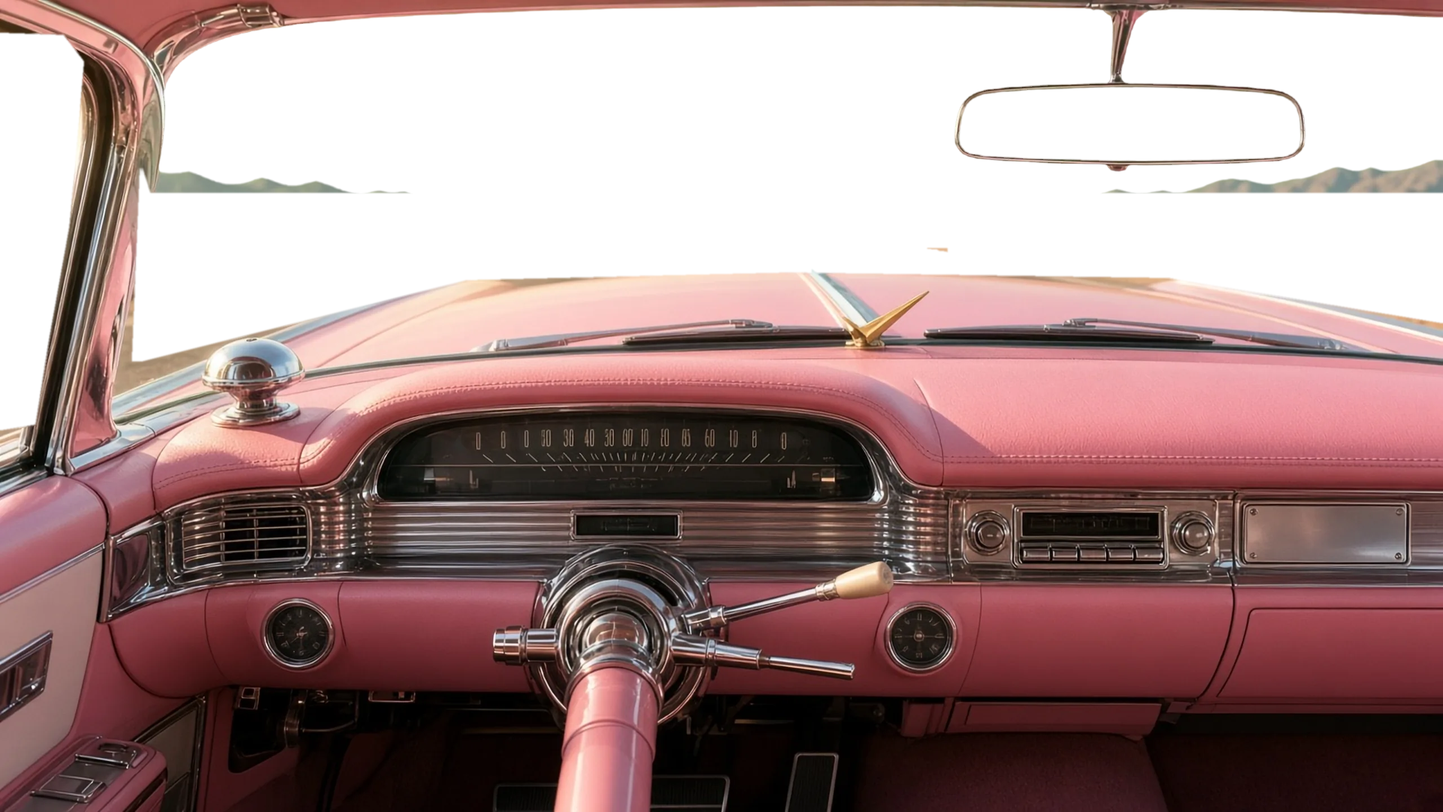
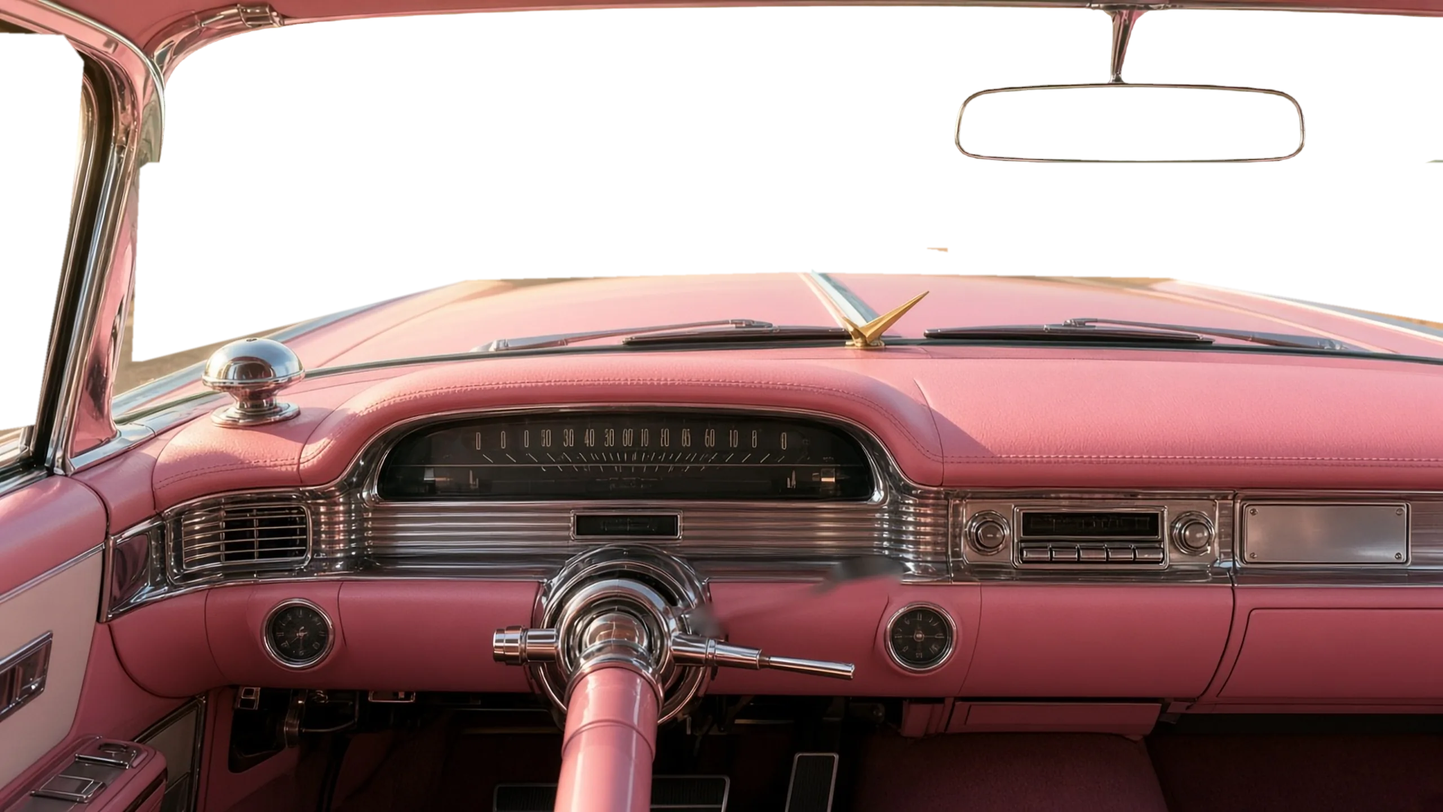
Deploy v1.5

Changed region(s): [[0.75, 0.1875, 1.0, 0.25], [0.4688, 0.6875, 0.625, 0.7812], [0.0938, 0.1875, 0.25, 0.25]]

diff --git a/index.html b/index.html
@@ -10,7 +10,7 @@
 <link rel="icon" href="data:,">
 <link rel="manifest" href="assets/manifest.webmanifest">
 <link rel="apple-touch-icon" href="assets/icon-180.png">
-<title>Street Rod: engine sound + driving demo (v1.4.1)</title>
+<title>Street Rod: engine sound + driving demo (v1.5)</title>
 <style>
 * { box-sizing: border-box; -webkit-tap-highlight-color: transparent; }
 html, body { margin: 0; background: #1a120c; color: #eadfc6; font: 15px/1.45 Georgia, 'Times New Roman', serif; }
@@ -64,11 +64,26 @@ td { padding: 2px 4px; vertical-align: top; } td:first-child { white-space: nowr
 .touch #stage { position: absolute; inset: 0; aspect-ratio: auto; border-radius: 0; }
 .touch aside { display: none; }
 .touch .tb { font-size: 13px; padding: 8px 10px; }
+/* v1.5: phones get separate layouts. Landscape: compact top bar (extra controls behind the menu button), pedals in the
+   side columns, shift buttons above the gas pedal, so the painted scene's middle stays clear. Portrait: top bar, then the
+   scene, then the controls below it (nothing over the scene). The painted visuals frame each layout separately. */
+#bMenu { display: none; min-width: 40px; font-size: 17px; }
+.touch #bMenu { display: inline-block; }
+.touch #topbar:not(.open) .more { display: none !important; }
+.touch #topbar.open #bMenu { background: #ffcf4a; }
+@media (orientation: landscape) {
+  .touch .shifts { right: max(10px, env(safe-area-inset-right)); bottom: calc(50% + 14px); width: max(11%, 78px); align-items: center; gap: 8px; }
+  .touch .tb.big { height: 52px; width: 100%; }
+}
 @media (orientation: portrait) {
-  .touch #rotate:not(.dismissed) { display: flex; position: absolute; inset: 0; z-index: 10; background: rgba(10,6,3,.88); align-items: center; justify-content: center; text-align: center; font-size: 18px; }
-  .touch #rotate .tb { margin-top: 14px; font-size: 15px; }
-  .touch .pedal { height: 25%; }
-  .touch .tb.big { height: 54px; }
+  .touch #stage { display: flex; flex-direction: column; padding-top: env(safe-area-inset-top); background: #1a120c; }
+  .touch #topbar { position: relative; top: auto; left: auto; right: auto; flex: 0 0 auto; padding: 8px max(8px, env(safe-area-inset-right)) 8px max(8px, env(safe-area-inset-left)); background: #1a120c; }
+  .touch canvas#dash { position: relative; inset: auto; flex: 1 1 0px; min-height: 0; height: 0; width: 100%; }
+  .touch #touch { position: relative; inset: auto; flex: 0 0 30%; display: block; background: #1a120c; border-top: 1px solid #3a2a1c; }
+  .touch .pedal { top: 10px; height: auto; bottom: max(10px, env(safe-area-inset-bottom)); width: 30%; }
+  .touch #pBrake { width: 32%; }
+  .touch .shifts { left: 50%; right: auto; top: 10px; bottom: max(10px, env(safe-area-inset-bottom)); transform: translateX(-50%); width: 26%; justify-content: center; }
+  .touch .tb.big { width: 100%; height: 46%; }
   .touch #topbar { gap: 4px; }
 }
 @media (max-width: 1100px) { #app { flex-wrap: wrap; } aside { flex: 1 1 100%; } }
@@ -127,14 +142,15 @@ td { padding: 2px 4px; vertical-align: top; } td:first-child { white-space: nowr
       <button class="tb" id="bIgn" data-act="ign">&#9679; Start engine</button>
       <div class="seg" id="segCar"><button class="tb" data-act="car" data-v="gt350">GT350</button><button class="tb" data-act="car" data-v="caddy">Cadillac</button></div>
       <div class="seg" id="segView"><button class="tb" data-act="view" data-v="1">Inside car</button><button class="tb" data-act="view" data-v="0">Outside (rear)</button><button class="tb" id="bBay" data-act="view" data-v="2">Engine bay</button></div>
-      <label class="sel"><span>Sound</span><select id="selSound" aria-label="Sound model"></select></label>
-      <label class="sel"><span>Visuals</span><select id="selVisual" aria-label="Visuals"></select></label>
-      <button class="tb" id="bDrag" data-act="drag">Drag &frac14; mile</button>
-      <button class="tb hidden" id="bRadio" data-act="radio">&#128251; Radio</button>
-      <button class="tb" id="bUnits" data-act="units">km/h</button>
-      <button class="tb" id="bMute" data-act="mute">Mute</button>
-      <button class="tb" id="bAbout" data-act="about" aria-label="About and history" title="About / History">i</button>
-      <div id="astatus" class="astatus">Sound: tap to enable</div>
+      <label class="sel more"><span>Sound</span><select id="selSound" aria-label="Sound model"></select></label>
+      <label class="sel more"><span>Visuals</span><select id="selVisual" aria-label="Visuals"></select></label>
+      <button class="tb more" id="bDrag" data-act="drag">Drag &frac14; mile</button>
+      <button class="tb more hidden" id="bRadio" data-act="radio">&#128251; Radio</button>
+      <button class="tb more" id="bUnits" data-act="units">km/h</button>
+      <button class="tb more" id="bMute" data-act="mute">Mute</button>
+      <button class="tb more" id="bAbout" data-act="about" aria-label="About and history" title="About / History">i</button>
+      <button class="tb" id="bMenu" data-act="menu" aria-label="More controls" title="More controls">&#9776;</button>
+      <div id="astatus" class="astatus more">Sound: tap to enable</div>
     </div>
     <div id="touch">
       <div class="pedal" id="pBrake" data-pedal="brake"><div class="fill"></div><span>BRAKE</span></div>
@@ -144,7 +160,6 @@ td { padding: 2px 4px; vertical-align: top; } td:first-child { white-space: nowr
     <div id="tree" class="hidden" aria-label="Drag tree"><div class="lbl">PRE</div><div class="pair"><i class="b" data-b="pre"></i><i class="b" data-b="pre"></i></div><div class="lbl">STAGE</div><div class="pair"><i class="b" data-b="stage"></i><i class="b" data-b="stage"></i></div><div class="pair am"><i class="b" data-b="a1"></i><i class="b" data-b="a1"></i></div><div class="pair am"><i class="b" data-b="a2"></i><i class="b" data-b="a2"></i></div><div class="pair am"><i class="b" data-b="a3"></i><i class="b" data-b="a3"></i></div><div class="pair gr"><i class="b" data-b="g"></i><i class="b" data-b="g"></i></div><div class="pair rd"><i class="b" data-b="r"></i><i class="b" data-b="r"></i></div></div>
     <div id="dragCard" class="hidden"></div>
     <div id="about" class="hidden" role="dialog" aria-modal="true" aria-labelledby="aboutTitle"><div class="aboutBox"><button class="tb aboutX" data-act="aboutClose" aria-label="Close">&times;</button><h2 id="aboutTitle">About / History</h2><div id="aboutBody"></div></div></div>
-    <div id="rotate"><div><b>&#8635; Rotate your phone</b><br>Landscape is the driving mode.<br><button class="tb" data-act="dismissRotate">Continue in portrait</button></div></div>
   </div>
   <aside>
     <h3>Controls (keyboard)</h3>
@@ -8316,7 +8331,7 @@ var GLView = (function () {
 </script>
 <script>/* js/painted-assets.js */
 /* painted-assets.js: generated by proposals/visuals-v2/interior-r3/build-assets-v2.py (Visuals v2 painted). The single-file build inlines these as data URIs. */
-var PAINTED_ASSETS = {"meta": {"upscale": "edsr-x2", "gt350": {"axisX": 555, "hub": [552, 490], "wheelR": 300, "view": {"hz": 196, "f": 900, "camH": 1.15, "roadHalf": 3.4}, "mirror": [678, 62, 218, 49], "side": [[0, 19], [146, 19], [146, 396], [0, 396]], "shifter": [792, 554, 128, 108], "gauges": {"speedo": [485, 385, 47], "tach": [625, 385, 47]}, "radioDial": [788, 404, 80, 22], "under": {"oil": [830, 507, 17], "amps": [883, 507, 17]}, "badge": [1026, 410, 128, 18], "wheel": {"px": 1224, "logical": 612.0}}, "caddy": {"axisX": 518, "hub": [512, 540], "wheelR": 330, "view": {"hz": 186, "f": 900, "camH": 1.2, "roadHalf": 3.4}, "mirror": [852, 78, 301, 64], "side": [[0, 30], [55, 32], [73, 55], [60, 200], [42, 300], [30, 375], [0, 380]], "ribbon": [333, 368, 441, 76], "prndsl": [506, 452, 96, 20], "radioDial": [907, 455, 121, 20], "plate": [1032, 437, 92, 46], "gauges": {"fuel": [263, 560, 22], "clock": [816, 564, 22]}, "wheel": {"px": 1346, "logical": 673.0}}, "backdrop": {"w": 1280, "h": 720, "hz": 319, "vx": 640, "roadHalfPx": 625, "bottomPx": 401}}, "files": {"caddy-cockpit": "assets/painted/caddy-cockpit.webp", "caddy-wheel-shadow": "assets/painted/caddy-wheel-shadow.webp", "caddy-wheel": "assets/painted/caddy-wheel.webp", "desert-backdrop": "assets/painted/desert-backdrop.jpg", "gt350-cockpit": "assets/painted/gt350-cockpit.webp", "gt350-shifter": "assets/painted/gt350-shifter.webp", "gt350-wheel-shadow": "assets/painted/gt350-wheel-shadow.webp", "gt350-wheel": "assets/painted/gt350-wheel.webp"}};
+var PAINTED_ASSETS = {"meta": {"upscale": "edsr-x2", "gt350": {"axisX": 555, "hub": [552, 490], "wheelR": 258.6, "view": {"hz": 97, "f": 1004.6, "camH": 1.15, "roadHalf": 3.4}, "mirror": [678, 62, 218, 49], "side": [[0, 19], [146, 19], [146, 396], [0, 396]], "shifter": [792, 554, 128, 108], "gauges": {"speedo": [485, 385, 47], "tach": [625, 385, 47]}, "radioDial": [788, 404, 80, 22], "under": {"oil": [830, 507, 17], "amps": [883, 507, 17]}, "badge": [1026, 410, 128, 18], "wheel": {"px": 1055, "logical": 527.5}}, "caddy": {"axisX": 518, "hub": [512, 540], "wheelR": 301.7, "view": {"hz": 148, "f": 1004.6, "camH": 1.2, "roadHalf": 3.4}, "mirror": [852, 78, 301, 64], "side": [[0, 30], [55, 32], [73, 55], [60, 200], [42, 300], [30, 375], [0, 380]], "ribbon": [333, 368, 441, 76], "prndsl": [506, 452, 96, 20], "radioDial": [907, 455, 121, 20], "plate": [1032, 437, 92, 46], "gauges": {"fuel": [263, 560, 22], "clock": [816, 564, 22]}, "lever": {"rect": [598, 490, 207, 78], "pivot": [620, 550]}, "wheel": {"px": 1231, "logical": 615.5}}, "backdrop": {"w": 1280, "h": 720, "hz": 319, "vx": 640, "roadHalfPx": 625, "bottomPx": 401}, "exterior": {"view": {"hz": 238, "f": 1000, "vx": 640}, "gt350": {"px": [924, 658], "bodyX": [6, 917], "contactY": 651, "splitY": 521, "realW": 1.73, "lamps": [[75, 366, 55, 55], [142, 366, 53, 55], [207, 366, 54, 55], [664, 368, 55, 53], [731, 369, 52, 53], [796, 369, 52, 53]], "tips": [[198, 573, 20], [724, 574, 20]], "dist": 4.6, "len": 4.6}, "caddy": {"px": [991, 630], "bodyX": [6, 984], "contactY": 623, "splitY": 527, "realW": 2.03, "lamps": [[72, 165, 36, 91], [883, 165, 37, 93], [32, 321, 30, 26], [85, 322, 26, 26], [876, 321, 32, 27], [930, 321, 30, 28]], "tips": [[69, 477, 24], [923, 478, 24]], "dist": 5.2, "len": 5.71}}, "props": [{"k": "sage", "r": [0, 101, 273, 205], "h": 0.9}, {"k": "creosote", "r": [277, 110, 272, 196], "h": 1.1}, {"k": "grass", "r": [553, 220, 88, 86], "h": 0.35}, {"k": "yucca", "r": [645, 15, 163, 291], "h": 1.6}, {"k": "fencepost", "r": [812, 1, 61, 305], "h": 1.2}, {"k": "delineator", "r": [877, 0, 52, 306], "h": 1.0}]}, "files": {"caddy-cockpit": "assets/painted/caddy-cockpit.webp", "caddy-lever": "assets/painted/caddy-lever.webp", "caddy-rear": "assets/painted/caddy-rear.webp", "caddy-wheel-shadow": "assets/painted/caddy-wheel-shadow.webp", "caddy-wheel": "assets/painted/caddy-wheel.webp", "desert-backdrop": "assets/painted/desert-backdrop.jpg", "desert-props": "assets/painted/desert-props.webp", "gt350-cockpit": "assets/painted/gt350-cockpit.webp", "gt350-rear": "assets/painted/gt350-rear.webp", "gt350-shifter": "assets/painted/gt350-shifter.webp", "gt350-wheel-shadow": "assets/painted/gt350-wheel-shadow.webp", "gt350-wheel": "assets/painted/gt350-wheel.webp"}};
 </script>
 <script>/* js/visuals-painted.js */
 /*
@@ -8328,7 +8343,9 @@ var PAINTED_ASSETS = {"meta": {"upscale": "edsr-x2", "gt350": {"axisX": 555, "hu
  *   3 rear-view mirror view   4 cached cockpit (painting + static gauge faces, scales, plates)
  *   5 live: needles, odometer drum, ribbon speedometer, PRNDSL, lamps, radio pointer, shifter sprite
  *   6 steering-wheel sprite (+ soft shadow sprite) rotated about the hub.
- * Outside and engine-bay views keep the v1 drawing. Assets: PAINTED_ASSETS (js/painted-assets.js).
+ * v1.5: real-dimension driver camera (proposals/visuals-v2/r5/camera.py), painted rear chase view, moving gear levers, and separate
+ *   portrait / landscape / desktop framing (focus box per car + view fitted into the canvas area no control covers).
+ * The engine-bay view keeps the v1 drawing. Assets: PAINTED_ASSETS (js/painted-assets.js).
  */
 var PaintedCockpit = (function () {
   'use strict';
@@ -8450,39 +8467,91 @@ var PaintedCockpit = (function () {
     }
     caches[key] = out; return out;
   }
-  // ---------------------------------------------------------------- scenery
-  function backdrop(g, car, s) {
-    var m = M[car], v = m.view, B = M.backdrop, img = A['desert-backdrop'];
-    var camH = B.bottomPx / B.roadHalfPx * 3.6, /* painting bottom row 4 m ahead */ k = (v.f * camH / 4.0) / B.bottomPx; // scale so painted road (half 3.6 m) matches the live geometry
-    var w = B.w * k, h = B.h * k, ox = m.axisX - B.vx * k, oy = v.hz - B.hz * k, hz = v.hz;
-    var dx = 1.85 + (s.lat || 0); // camera right of the road's centre line (right-hand lane); shear the ground so the road meets the vanishing point
-    var shear = -dx / camH;
-    g.save(); g.beginPath(); g.rect(0, 0, PW, hz + 1); g.clip(); g.drawImage(img, ox, oy, w, h); g.restore();
-    g.save(); g.beginPath(); g.rect(0, hz, PW, PH - hz); g.clip(); g.transform(1, 0, shear, 1, -shear * hz, 0); g.drawImage(img, ox, oy, w, h); g.restore();
-    function yOf(z) { return hz + v.f * camH / z; }
-    function xOf(z, lx) { return m.axisX + v.f * (lx - dx) / z; }
+  // ---------------------------------------------------------------- scenery (shared by the inside and the chase views)
+  // P = { axisX, hz, f, dx: camera right of the centre line (m), camOff: camera to car front (m), clipTop }
+  function camHB() { var B = M.backdrop; return B.bottomPx / B.roadHalfPx * 3.6; }
+  function scenery(g, P, s) {
+    var B = M.backdrop, img = A['desert-backdrop'], camH = camHB(), hz = P.hz, f = P.f;
+    var k = (f * camH / 4.0) / B.bottomPx;   // painting bottom row = 4 m ahead; scaled so the painted road (half 3.6 m) matches the live geometry
+    var w = B.w * k, h = B.h * k, ox = P.axisX - B.vx * k, oy = hz - B.hz * k, dx = P.dx, shear = -dx / camH;
+    function tile() { g.drawImage(img, ox, oy, w, h); [ox, ox + 2 * w].forEach(function (mx) { g.save(); g.translate(mx, 0); g.scale(-1, 1); g.drawImage(img, 0, oy, w, h); g.restore(); }); }  // mirrored copies either side
+    g.save(); g.beginPath(); g.rect(-900, -400, PW + 1800, hz + 401); g.clip(); tile(); g.restore();
+    g.save(); g.beginPath(); g.rect(-900, hz, PW + 1800, PH - hz + 400); g.clip(); g.transform(1, 0, shear, 1, -shear * hz, 0); tile();
+    if (oy + h < PH + 10) { g.fillStyle = '#3b3632'; g.fillRect(ox - w, oy + h - 1, 3 * w, PH - oy - h + 400); }
+    g.restore();
+    function yOf(z) { return hz + f * camH / z; }
+    function xOf(z, lx) { return P.axisX + f * (lx - dx) / z; }
     var d = s.dist || 0, period = 12, ph = d % period; g.fillStyle = 'rgba(226,190,90,0.85)';
     for (var zz = -ph; zz < 260; zz += period) {
-      var a = Math.max(3, zz), b = zz + 3; if (b <= 3) continue;
-      var ya = yOf(a), yb = yOf(b), wa = v.f * 0.06 / a, wb = v.f * 0.06 / b;
-      poly(g, [[xOf(a, 0) - wa, ya], [xOf(a, 0) + wa, ya], [xOf(b, 0) + wb, yb], [xOf(b, 0) - wb, yb]]); g.fill();
+      var za = Math.max(1.5, zz), zb = zz + 3; if (zb <= 1.5) continue;
+      var ya = yOf(za), yb = yOf(zb), wa = f * 0.06 / za, wb = f * 0.06 / zb;
+      poly(g, [[xOf(za, 0) - wa, ya], [xOf(za, 0) + wa, ya], [xOf(zb, 0) + wb, yb], [xOf(zb, 0) - wb, yb]]); g.fill();
     }
     if (s.drag) [[s.drag.start, 0.3, false], [s.drag.finish, 0.9, true]].forEach(function (L) {
-      var za = L[0] + 2.2, zb = za + L[1]; if (zb <= 3 || za > 500) return; za = Math.max(za, 3);
+      var za = L[0] + P.camOff, zb = za + L[1]; if (zb <= 1.5 || za > 500) return; za = Math.max(za, 1.5);
       var n = L[2] ? 16 : 1; for (var q = 0; q < n; q++) { if (L[2] && q % 2) continue; var u0 = -3.6 + 7.2 * q / n, u1 = -3.6 + 7.2 * (q + 1) / n;
-        g.fillStyle = 'rgba(244,242,234,0.9)'; poly(g, [[xOf(za, u0), yOf(za)], [xOf(za, u1), yOf(za)], [xOf(zb, u1), yOf(zb)], [xOf(zb, u0), yOf(zb)]]); g.fill(); }
+        g.fillStyle = 'rgba(244,242,234,0.92)'; poly(g, [[xOf(za, u0), yOf(za)], [xOf(za, u1), yOf(za)], [xOf(zb, u1), yOf(zb)], [xOf(zb, u0), yOf(zb)]]); g.fill(); }
     });
-    // side window: the desert streams past (band of the painting scrolled with distance)
+    // roadside props streaming past (painted sprites; positions repeat every 400 m, sizes from real heights)
+    var S = A['desert-props'], PR = M.props, list = [], seg = 9;
+    for (var j = Math.floor(d / seg); j < Math.floor(d / seg) + 26; j++) {
+      var zr = j * seg - d + 1.5; if (zr < 1.2) continue;
+      var r1 = hash(j), r2 = hash(j + 1000), r3 = hash(j + 2000), side = r1 < 0.5 ? -1 : 1;
+      if (j % 3 === 0) list.push({ z: zr, x: side * 4.4, p: PR[5] });   // delineator posts, both sides
+      var kind = r2 < 0.38 ? 0 : r2 < 0.66 ? 1 : r2 < 0.86 ? 2 : r2 < 0.95 ? 3 : 4;
+      list.push({ z: zr + 3, x: side * (6 + r3 * 16), p: PR[kind] });
+      if (r3 > 0.55) list.push({ z: zr + 5.5, x: -side * (7 + r1 * 12), p: PR[r3 > 0.8 ? 2 : 0] });
+    }
+    list.sort(function (a, b) { return b.z - a.z; });
+    for (var q2 = 0; q2 < list.length; q2++) {
+      var it = list[q2], r = it.p.r, hp = f * it.p.h / it.z, wp = hp * r[2] / r[3], xb = xOf(it.z, it.x), yb2 = yOf(it.z);
+      if (hp < 1.5 || xb + wp < -60 || xb - wp > PW + 60 || yb2 < (P.clipTop || -1e9)) continue;
+      g.globalAlpha = Math.min(1, (160 - it.z) / 40); g.drawImage(S, r[0], r[1], r[2], r[3], xb - wp / 2, yb2 - hp, wp, hp); g.globalAlpha = 1;
+    }
+    return { yOf: yOf, xOf: xOf };
+  }
+  function hash(n) { var x = Math.sin(n * 127.1 + 311.7) * 43758.5453; return x - Math.floor(x); }
+  function backdrop(g, car, s) {
+    var m = M[car], v = m.view, B = M.backdrop, img = A['desert-backdrop'], d = s.dist || 0;
+    scenery(g, { axisX: m.axisX, hz: v.hz, f: v.f, dx: 1.85 + (s.lat || 0), camOff: 2.2 }, s);
+    // side window: the desert streams past (band of the painting scrolled with distance), horizon at the same height as ahead
     g.save(); poly(g, m.side); g.clip();
-    var bandY = B.hz - 40, bandH = 260, sw = img.naturalWidth, sh = img.naturalHeight, sy = bandY / B.h * sh, shh = bandH / B.h * sh, tw = 900, th = tw * shh / (sw * 0.5);
-    var off = ((d * 9) % tw + tw) % tw, top = m.side[0][1] + 10;
-    for (var i = -1; i < 2; i++) g.drawImage(img, 0, sy, sw * 0.5, shh, -off + i * tw + 0, top - th * 0.12, tw, th);
+    var bandY = B.hz - 150, bandH = 370, sw = img.naturalWidth, sh = img.naturalHeight, sy = bandY / B.h * sh, shh = bandH / B.h * sh, tw = 900, th = tw * shh / (sw * 0.5);
+    var off = ((d * 9) % tw + tw) % tw, top = v.hz - th * 150 / bandH;
+    g.fillStyle = '#c9a77a'; g.fillRect(0, 0, 300, PH);
+    for (var i = -1; i < 2; i++) g.drawImage(img, 0, sy, sw * 0.5, shh, -off + i * tw, top, tw, th);
     g.fillStyle = 'rgba(30,25,20,0.12)'; g.fillRect(0, 0, 300, PH); g.restore();
     // rear-view mirror: the road behind (painting mirrored)
     var mr = m.mirror; g.save(); rr(g, mr[0] - 4, mr[1] - 4, mr[2] + 8, mr[3] + 8, 18); g.clip(); g.translate(mr[0] + mr[2] + 4, mr[1] - 4); g.scale(-1, 1);
     var cw = sw * 0.42, chh = cw * (mr[3] + 8) / (mr[2] + 8); g.drawImage(img, sw * 0.5 - cw / 2, sh * (B.hz / B.h) - chh * 0.42, cw, chh, 0, 0, mr[2] + 8, mr[3] + 8); g.restore();
   }
-  // ---------------------------------------------------------------- frame
+  // ---------------------------------------------------------------- gear levers
+  var anim = { t: 0, gt: { x: 0, y: 0, path: [], gear: null }, cad: { a: null } };
+  function stepT(s) { var dt = anim.t ? Math.max(0, Math.min(0.05, s.time - anim.t)) : 0; anim.t = s.time; return dt; }
+  // GT350 Hurst 4-speed H: 1 = left-forward, 2 = left-back, 3 = right-forward, 4 = right-back (forward = up the screen).
+  // A shift runs through the gate: out of gear to neutral, across, then into gear, each leg an eased ~0.07 s throw.
+  var HP = { 0: [0, 0], 1: [-1, -1], 2: [-1, 1], 3: [1, -1], 4: [1, 1], 5: [1, 1] }, LV = { gtDt: 0 };
+  function hurst(g, m, s) {
+    var st = anim.gt, gear = s.gear | 0, dt = LV.gtDt;
+    if (st.gear === null) { st.gear = gear; var p0 = HP[gear] || [0, 0]; st.x = p0[0]; st.y = p0[1]; }
+    if (gear !== st.gear) { var tp = HP[gear] || [0, 0]; st.path = [[st.x, 0], [tp[0], 0], [tp[0], tp[1]]]; st.gear = gear; }
+    if (st.path.length) { var w = st.path[0], sp = dt / 0.07, ddx = w[0] - st.x, ddy = w[1] - st.y, dd = Math.hypot(ddx, ddy);
+      if (dd <= sp || dd < 1e-3) { st.x = w[0]; st.y = w[1]; st.path.shift(); } else { var e = Math.max(sp, dd * 0.45); e = Math.min(e, dd); st.x += ddx / dd * e; st.y += ddy / dd * e; } }
+    var k = m.shifter, px = k[0] + k[2] * 0.45, py = k[1] + k[3];  // pivot where the stick enters the boot
+    g.save(); g.translate(px, py); g.rotate(st.x * 0.13); g.scale(1, 1 - st.y * 0.1); g.translate(0, st.y * 2);
+    g.drawImage(A['gt350-shifter'], k[0] - px, k[1] - py, k[2], k[3]); g.restore();
+  }
+  // Cadillac column lever: rotates about the column through the Hydra-Matic quadrant P N D S L R (eased)
+  var QA = { P: -0.23, N: -0.17, D: -0.115, S: -0.08, L: -0.045, R: 0.0 };
+  function columnLever(g, m, s) {
+    var lv = m.lever; if (!lv || !A['caddy-lever']) return;
+    var tgt = QA[s.range || 'N'] !== undefined ? QA[s.range || 'N'] : -0.1, st = anim.cad;
+    if (st.a === null) st.a = tgt; st.a += (tgt - st.a) * (LV.gtDt ? Math.min(1, LV.gtDt / 0.06) : 0.35);
+    var r = lv.rect, pv = lv.pivot;
+    g.save(); g.translate(pv[0], pv[1]); g.rotate(st.a); g.shadowColor = 'rgba(40,10,10,0.45)'; g.shadowBlur = 6; g.shadowOffsetY = 5;
+    g.drawImage(A['caddy-lever'], r[0] - pv[0], r[1] - pv[1], r[2], r[3]); g.restore();
+  }
+  // ---------------------------------------------------------------- inside frame
   function drawInside(g, s) {
     var car = s.carId === 'gt350' ? 'gt350' : 'caddy', m = M[car], C = cache(car, s), mph = s.kmh / 1.609344;
     backdrop(g, car, s);
@@ -8498,14 +8567,14 @@ var PaintedCockpit = (function () {
       if (m.under) { var U = m.under, oilP = running ? Math.min(70, 18 + s.rpm / 100) : 0, amp = running ? 30 + Math.max(-12, Math.min(14, (s.rpm - 1500) / 300)) : 22;
         needle(g, U.oil[0], U.oil[1] + 2, U.oil[2], C.angOil(oilP), '#ff6a1e', 2.2); needle(g, U.amps[0], U.amps[1] + 2, U.amps[2], C.angAmp(amp), '#ff6a1e', 2.2); glass(g, U.oil[0], U.oil[1], U.oil[2]); glass(g, U.amps[0], U.amps[1], U.amps[2]); }
       // Hurst T-handle: painted sprite, nudged through the H pattern (1-2 left, 3-4 right; odd forward, even back)
-      var k = m.shifter, gear = s.gear | 0, dxs = { 0: 0, 1: -8, 2: -8, 3: 6, 4: 6 }[gear] || 0, dys = gear ? (gear % 2 ? -6 : 6) : 0;
-      g.drawImage(A['gt350-shifter'], k[0] + dxs, k[1] + dys, k[2], k[3]);
+      hurst(g, m, s);
     } else {
       var rb = C.rib, x0 = rb[0], x1 = rb[0] + Math.min(rb[2], units(s) === 'mph' ? mph : s.kmh) / rb[2] * (rb[1] - rb[0]), y0 = rb[3];
       g.fillStyle = lin(g, 0, y0 + 46, 0, y0 + 56, [[0, '#ffc07a'], [0.5, '#ff5a14'], [1, '#a82a08']]); g.fillRect(x0, y0 + 46, x1 - x0, 9);
       g.save(); g.globalCompositeOperation = 'lighter'; g.fillStyle = rad(g, x1, y0 + 50, 0, 30, [[0, 'rgba(255,120,40,0.85)'], [1, 'rgba(0,0,0,0)']]); g.fillRect(x1 - 30, y0 + 20, 60, 60); g.restore();
       var R = m.ribbon; g.save(); rr(g, R[0], R[1], R[2], R[3], 22); g.clip(); g.fillStyle = lin(g, R[0], R[1], R[0] + R[2] * 0.5, R[1] + R[3], [[0, 'rgba(255,255,255,0.18)'], [0.45, 'rgba(255,255,255,0.03)'], [0.5, 'rgba(255,255,255,0)']]); g.fillRect(R[0], R[1], R[2], R[3]); g.restore();
       lamp(g, R[0] + 16, R[1] + 51, 3.6, '#ff3a2a', s.brake > 0.05); lamp(g, R[0] + R[2] - 16, R[1] + 51, 3.6, '#ff3a2a', !running);
+      columnLever(g, m, s);
       var P = m.prndsl, L = ['P', 'N', 'D', 'S', 'L', 'R'], qi = Math.max(0, L.indexOf(s.range || 'N'));
       g.font = 'bold 11px Georgia, serif'; g.textAlign = 'center';
       L.forEach(function (c, i) { g.fillStyle = i === qi ? '#ffb070' : 'rgba(236,227,207,0.7)'; g.fillText(c, P[0] + (i + 0.5) * P[2] / 6, P[1] + P[3] * 0.72); });
@@ -8521,33 +8590,106 @@ var PaintedCockpit = (function () {
     g.save(); g.translate(hub[0] + 10, hub[1] + 16); g.rotate(rot); g.globalAlpha = 0.5; g.drawImage(A[car + '-wheel-shadow'], -wl / 2, -wl / 2, wl, wl); g.restore();
     g.save(); g.translate(hub[0], hub[1]); g.rotate(rot); g.drawImage(A[car + '-wheel'], -wl / 2, -wl / 2, wl, wl); g.restore();
   }
-  // map painting space onto the Dash (logical 720 high, W wide): cover-fit, keep the driver's axis/cluster in view
-  function place(W, car) {
-    var k = Math.max(1, W / PW), ox, oy = -(PH * k - PH) * 0.12;  // wide phones: crop mostly at the bottom so the road stays clear of the button bar
-    if (W >= PW) ox = (W - PW * k) / 2; else ox = Math.max(W - PW, Math.min(0, W / 2 - M[car].axisX - 60));
+  // ---------------------------------------------------------------- outside: rear chase camera
+  var smoke = [];
+  function drawOutside(g, s) {
+    var car = s.carId === 'gt350' ? 'gt350' : 'caddy', E = M.exterior, c = E[car], V = E.view, f = V.f, camH = camHB(), dt = LV.gtDt;
+    var steer = s.steer || 0, sway = steer * 10;
+    scenery(g, { axisX: V.vx - sway * 0.6, hz: V.hz, f: f, dx: 1.85 + (s.lat || 0), camOff: c.dist + c.len }, s);
+    var wpx = f * c.realW / c.dist, sc = wpx / (c.bodyX[1] - c.bodyX[0]), zc = c.dist + (car === 'gt350' ? 0.9 : 1.35), yc = V.hz + f * camH / zc;
+    var cx = V.vx + sway, x0 = cx - (c.bodyX[0] + c.bodyX[1]) / 2 * sc, y0 = yc - c.contactY * sc, img = A[car + '-rear'];
+    var run = s.engine === 'running', shake = run ? Math.sin(s.time * 70) * Math.min(1.2, 0.4 + s.rpm / 5000) : 0;
+    var pitch = Math.max(-7, Math.min(7, (s.accel || 0) * 14)), roll = -steer * Math.min(1, s.kmh / 60) * 0.035;  // squat (+) / dive (-), body roll in turns
+    // contact shadow
+    g.save(); g.globalAlpha = 0.55; g.fillStyle = rad(g, cx, yc, 0, wpx * 0.62, [[0, 'rgba(0,0,0,0.85)'], [0.7, 'rgba(0,0,0,0.45)'], [1, 'rgba(0,0,0,0)']]);
+    g.translate(cx, yc); g.scale(1, 0.09); ell(g, 0, 0, wpx * 0.62, wpx * 0.62); g.fill(); g.restore();
+    var sy = c.splitY;   // tyres below splitY stay planted; the body above moves
+    g.save(); g.translate(cx, yc); g.rotate(roll * 0.4); g.translate(-cx, -yc);
+    g.drawImage(img, 0, sy, c.px[0], c.px[1] - sy, x0, y0 + sy * sc, c.px[0] * sc, (c.px[1] - sy) * sc);
+    g.translate(cx, y0 + sy * sc); g.rotate(roll); g.translate(-cx, -(y0 + sy * sc)); g.translate(0, pitch + shake * 0.5);
+    g.drawImage(img, 0, 0, c.px[0], sy + 2, x0, y0, c.px[0] * sc, (sy + 2) * sc);
+    // tail / brake lamps
+    var br = s.brake > 0.05 ? Math.min(1, 0.55 + s.brake) : 0, tail = run ? 0.22 : 0;
+    if (br + tail > 0) { g.globalCompositeOperation = 'lighter';
+      c.lamps.forEach(function (L) { var lx = x0 + (L[0] + L[2] / 2) * sc, ly = y0 + (L[1] + L[3] / 2) * sc, lr = Math.max(L[2], L[3]) * sc;
+        g.globalAlpha = (tail + br) * 0.8; g.fillStyle = rad(g, lx, ly, 0, lr * 0.6, [[0, 'rgba(255,200,170,0.95)'], [1, 'rgba(255,40,20,0)']]); g.fillRect(lx - lr, ly - lr, 2 * lr, 2 * lr);
+        if (br) { g.globalAlpha = br * 0.55; g.fillStyle = rad(g, lx, ly, 0, lr * 2.4, [[0, 'rgba(255,50,30,0.8)'], [1, 'rgba(255,0,0,0)']]); g.fillRect(lx - lr * 2.4, ly - lr * 2.4, lr * 4.8, lr * 4.8); } });
+      g.globalAlpha = 1; g.globalCompositeOperation = 'source-over'; }
+    var tips = c.tips.map(function (t) { return [x0 + t[0] * sc, y0 + t[1] * sc + pitch, t[2] * sc]; });
+    g.restore();
+    // exhaust smoke: puffs leave the tips, grow, drift back towards the camera and fade (more under throttle and at idle when cold)
+    if (run) { var rate = (6 + 26 * (s.thr || 0) + s.rpm / 600) * dt;
+      tips.forEach(function (t, i) { for (var n = rate + Math.random(); n > 1; n--) smoke.push({ x: t[0], y: t[1], r: t[2] * 0.5, vx: (i ? 1 : -1) * (4 + Math.random() * 10), vy: 8 + Math.random() * 10, a: 0.07 + 0.16 * (s.thr || 0), t: 0, life: 0.9 + Math.random() * 0.8 }); }); }
+    for (var q = smoke.length - 1; q >= 0; q--) { var p = smoke[q]; p.t += dt; if (p.t > p.life) { smoke.splice(q, 1); continue; }
+      p.x += (p.vx - sway * 0.0) * dt; p.y += p.vy * dt; p.r += (10 + s.kmh * 0.22) * dt; p.y += s.kmh * 0.08 * dt;
+      var al = p.a * (1 - p.t / p.life); g.fillStyle = rad(g, p.x, p.y, 0, p.r, [[0, 'rgba(215,212,205,' + al.toFixed(3) + ')'], [1, 'rgba(215,212,205,0)']]); ell(g, p.x, p.y, p.r, p.r * 0.8); g.fill(); }
+    if (smoke.length > 220) smoke.splice(0, smoke.length - 220);
+  }
+  // ---------------------------------------------------------------- framing: separate portrait / landscape / desktop compositions
+  // Focus box (painting px) per car, view and orientation, fitted into the part of the canvas no control covers.
+  var FOCUS = {
+    gt350: { in: { land: [150, 175, 1165, 645], port: [292, 30, 870, 720] }, out: { land: [360, 140, 920, 700], port: [370, 60, 910, 720] } },
+    caddy: { in: { land: [80, 150, 1140, 650], port: [205, 30, 830, 720] }, out: { land: [360, 140, 920, 700], port: [370, 60, 910, 720] } } };
+  var LY = null, LYt = 0;
+  function layout(dash) {
+    var now = performance.now(), cv = dash.cv;
+    if (LY && now - LYt < 400 && LY.cw === cv.width && LY.ch === cv.height) return LY;
+    var cr = cv.getBoundingClientRect(), px = cv.width / Math.max(1, cr.width), sx0 = 0, sx1 = cr.width, sy0 = 0, sy1 = cr.height, touch = document.documentElement.classList.contains('touch');
+    function vis(el) { return el && el.offsetParent !== null && el.getClientRects().length; }
+    var tb = document.getElementById('topbar'), items = tb ? tb.querySelectorAll(touch ? '#bIgn, #segCar, #segView, #bMenu' : '#topbar > *') : [];
+    for (var i = 0; i < items.length; i++) { if (!vis(items[i])) continue; var r = items[i].getBoundingClientRect(); if (r.bottom > cr.top && r.top < cr.top + cr.height * 0.5) sy0 = Math.max(sy0, r.bottom - cr.top + 6); }
+    ['pBrake', 'pGas', 'bUp', 'bDown'].forEach(function (id) {
+      var el = document.getElementById(id); if (!vis(el)) return; var r = el.getBoundingClientRect();
+      if (r.top > cr.bottom - 4 || r.bottom < cr.top + 4) return;   // below the scene (portrait layout)
+      if (r.left + r.width / 2 < cr.left + cr.width / 2) sx0 = Math.max(sx0, r.right - cr.left + 6); else sx1 = Math.min(sx1, r.left - cr.left - 6);
+    });
+    LY = { cw: cv.width, ch: cv.height, px: px, css: [cr.width, cr.height], safe: [sx0 * px, sy0 * px, sx1 * px, sy1 * px], port: cr.width / cr.height < 1.15 };
+    LYt = now; return LY;
+  }
+  function frameFor(L, car, view) {
+    var F = FOCUS[car][view][L.port ? 'port' : 'land'], S = L.safe, sw = S[2] - S[0], sh = S[3] - S[1];
+    var kf = Math.min(sw / (F[2] - F[0]), sh / (F[3] - F[1])), kc = Math.max(L.cw / PW, L.ch / PH), k = Math.min(kf, kc);
+    var ox = (S[0] + S[2]) / 2 - (F[0] + F[2]) / 2 * k, oy = (S[1] + S[3]) / 2 - (F[1] + F[3]) / 2 * k;
+    if (PW * k >= L.cw) ox = Math.max(L.cw - PW * k, Math.min(0, ox)); else ox = Math.max(0, Math.min(L.cw - PW * k, ox));
+    if (PH * k >= L.ch) oy = Math.max(L.ch - PH * k, Math.min(0, oy)); else oy = Math.max(0, Math.min(L.ch - PH * k, oy));
     return { k: k, ox: ox, oy: oy };
   }
-  function draw(dash, s) {
-    load();
-    if (status !== 'ready' || s.view === 2 || s.viewBlend < 0.001) { dash.draw(s); return; }
-    var b = s.viewBlend, g = dash.g, W = dash.W, car = s.carId === 'gt350' ? 'gt350' : 'caddy';
-    if (b < 0.999) dash.draw(Object.assign({}, s, { viewBlend: 0 }));
-    g.setTransform(dash.scale, 0, 0, dash.scale, 0, 0);
-    var oy = (dash.cv.height / dash.scale - PH) / 2; if (oy > 0) g.translate(0, oy);
-    var p = place(W, car);
-    g.save(); g.beginPath(); g.rect(0, 0, W, PH); g.clip(); g.globalAlpha = b; g.translate(p.ox, p.oy); g.scale(p.k, p.k);
-    if (b < 0.999) { // fade: draw to the canvas with alpha via a layer
-      g.globalAlpha = 1; var L = layer(dash); L.g.setTransform(1, 0, 0, 1, 0, 0); L.g.clearRect(0, 0, L.cv.width, L.cv.height);
-      L.g.setTransform(dash.scale * p.k, 0, 0, dash.scale * p.k, dash.scale * p.ox, dash.scale * p.oy); drawInside(L.g, s);
-      g.setTransform(1, 0, 0, 1, 0, 0); g.globalAlpha = b; g.drawImage(L.cv, 0, Math.max(0, oy) * dash.scale); g.globalAlpha = 1;
-    } else drawInside(g, s);
+  function paint(g, p, fn, s, open) {
+    g.save(); g.setTransform(p.k, 0, 0, p.k, p.ox, p.oy); if (!open) { g.beginPath(); g.rect(0, 0, PW, PH); g.clip(); } fn(g, s); g.restore();
+    if (open) return;
+    // where the painting does not reach the canvas edge (it is fitted inside the uncovered area), mirror its edge band outwards, dimmed
+    var cv = g.canvas, x0 = Math.ceil(p.ox), x1 = Math.floor(p.ox + PW * p.k), y0 = Math.ceil(p.oy), y1 = Math.floor(p.oy + PH * p.k);
+    g.save(); g.setTransform(1, 0, 0, 1, 0, 0);
+    function band(sx, sy, sw, sh, dx, dy, flipX, flipY) { if (sw <= 0 || sh <= 0) return; g.save(); g.translate(dx + (flipX ? sw : 0), dy + (flipY ? sh : 0)); g.scale(flipX ? -1 : 1, flipY ? -1 : 1); g.drawImage(cv, sx, sy, sw, sh, 0, 0, sw, sh); g.restore(); g.fillStyle = 'rgba(8,5,3,0.45)'; g.fillRect(dx, dy, sw, sh); }
+    if (x0 > 0) band(x0, 0, Math.min(x0, x1 - x0), cv.height, 0, 0, true, false);
+    if (x1 < cv.width) { var w2 = Math.min(cv.width - x1, x1 - x0); band(x1 - w2, 0, w2, cv.height, x1, 0, true, false); }
+    if (y0 > 0) band(0, y0, cv.width, Math.min(y0, y1 - y0), 0, 0, false, true);
+    if (y1 < cv.height) { var h2 = Math.min(cv.height - y1, y1 - y0); band(0, y1 - h2, cv.width, h2, 0, y1, false, true); }
     g.restore();
-    g.setTransform(dash.scale, 0, 0, dash.scale, 0, 0); if (oy > 0) g.translate(0, oy);
-    dash.insideInfo(g, s, W); dash.hudTags(g, s, W);
   }
   var lay = null;
-  function layer(dash) { if (!lay) { lay = { cv: document.createElement('canvas') }; lay.g = lay.cv.getContext('2d'); } if (lay.cv.width !== dash.cv.width || lay.cv.height !== Math.round(PH * dash.scale)) { lay.cv.width = dash.cv.width; lay.cv.height = Math.round(PH * dash.scale); } return lay; }
-  return { draw: draw, load: load, get status() { return status; }, meta: function () { return M; }, _drawInside: drawInside };
+  function layer(cv) { if (!lay) { lay = { cv: document.createElement('canvas') }; lay.g = lay.cv.getContext('2d'); } if (lay.cv.width !== cv.width || lay.cv.height !== cv.height) { lay.cv.width = cv.width; lay.cv.height = cv.height; } return lay; }
+  function draw(dash, s) {
+    load();
+    if (status !== 'ready' || s.view === 2) { dash.draw(s); return; }
+    LV.gtDt = stepT(s);
+    var g = dash.g, cv = dash.cv, L = layout(dash), car = s.carId === 'gt350' ? 'gt350' : 'caddy', b = s.viewBlend;
+    g.setTransform(1, 0, 0, 1, 0, 0); g.globalAlpha = 1; g.fillStyle = '#0d0906'; g.fillRect(0, 0, cv.width, cv.height);
+    if (b < 0.999) paint(g, frameFor(L, car, 'out'), drawOutside, s, true);
+    if (b > 0.001) {
+      var p = frameFor(L, car, 'in');
+      if (b < 0.999) { var Ly = layer(cv); Ly.g.setTransform(1, 0, 0, 1, 0, 0); Ly.g.clearRect(0, 0, cv.width, cv.height); paint(Ly.g, p, drawInside, s); g.setTransform(1, 0, 0, 1, 0, 0); g.globalAlpha = b; g.drawImage(Ly.cv, 0, 0); g.globalAlpha = 1; }
+      else paint(g, p, drawInside, s);
+    }
+    // HUD in the uncovered area, in CSS-pixel based units so it reads the same on every screen
+    var S = L.safe, u = L.px * Math.max(0.55, Math.min(1, (S[2] - S[0]) / L.px / 900)), Wl = (S[2] - S[0]) / u;
+    g.setTransform(u, 0, 0, u, S[0], S[1]);
+    if (b > 0.5) dash.insideInfo(g, s, Wl);
+    else { g.setTransform(u, 0, 0, u, S[0], L.port ? S[1] + 6 * L.px - 646 * u : S[3] - 720 * u - 4 * L.px); dash.hudStrip(g, s, Wl, true); g.setTransform(u, 0, 0, u, S[0], S[1] + (L.port ? 70 * u : 0)); }  // portrait: HUD in the sky, clear of the car
+    dash.hudTags(g, s, Wl);
+    g.setTransform(1, 0, 0, 1, 0, 0);
+  }
+  return { draw: draw, load: load, get status() { return status; }, meta: function () { return M; }, layout: function () { return LY; }, _drawInside: drawInside, _drawOutside: drawOutside, _focus: FOCUS };
 })();
 </script>
 <script>/* js/visuals.js */
@@ -8561,7 +8703,7 @@ var VisualModels = (function () {
   var list = [];
   function register(m) { list.push(m); }
   register({ id: 'v1', label: 'v1 \u2013 drawn', note: 'canvas art (v1.1)', draw: function (dash, s) { if (typeof GLView !== 'undefined') GLView.hide(); dash.draw(s); } });
-  if (typeof PaintedCockpit !== 'undefined') register({ id: 'v2', label: 'v2 \u2013 painted', note: 'painted cockpit art + live gauges (inside view; outside and engine bay use v1)', draw: function (dash, s) { if (typeof GLView !== 'undefined') GLView.hide(); PaintedCockpit.draw(dash, s); } });
+  if (typeof PaintedCockpit !== 'undefined') register({ id: 'v2', label: 'v2 \u2013 painted', note: 'painted cockpit + painted chase view, live gauges and levers (engine bay uses v1)', draw: function (dash, s) { if (typeof GLView !== 'undefined') GLView.hide(); PaintedCockpit.draw(dash, s); } });
   if (typeof GLView !== 'undefined') register({ id: 'v3', label: 'v3 \u2013 3D preview (WebGL)', note: 'real-time three.js renderer; falls back to v1 without WebGL', available: GLView.available, draw: function (dash, s) { GLView.draw(dash, s); } });
   return { list: list, register: register, get: function (id) { if (id === 'v2' && !list.some(function (m) { return m.id === 'v2'; })) id = 'v3'; // v1.3 called the 3D renderer v2
       for (var i = 0; i < list.length; i++) if (list[i].id === id && (!list[i].available || list[i].available())) return list[i]; return list[0]; } };
@@ -8595,7 +8737,8 @@ var ProjectHistory = {
       { v: 'v1.3', date: '2026-11-11', status: 'done', text: 'Realistic real-time 3D visuals (WebGL): car models seen from behind, period cockpits with live gauges, moving road and scenery, smoke, steering.' },
       { v: 'v1.3.1', date: '2026-11-11', status: 'done', text: 'Quarter-mile drag strip with a Christmas tree, reaction time, splits, trap speeds and best times per car; Cadillac radio playing an original 1950s-style rockabilly tune through a 1959 AM tube-radio sound. The 3D visuals are renamed v3 (v2 is reserved for the detailed drawn style).' },
       { v: 'v1.4', date: '2026-11-11', status: 'done', text: 'Visuals v2 \u2013 painted: new near-photographic painted cockpits for both cars, seen straight ahead from the driver\u2019s seat, with live needles, odometer, ribbon speedometer, gear indicator, lamps, radio dial, moving shifter, turning steering wheel, painted desert road and moving side-window view. Selectable under Visuals; the default stays v1 (drawn), v3 is the 3D preview.' },
-      { v: 'v1.4.1', date: '2026-11-11', status: 'done', text: 'GT350 painted cockpit redone with the full cabin width: the dash, wood-grain band, radio, under-dash gauges, glovebox with Shelby plate and console continue across to the passenger side, the right A-pillar sits at the far edge of the windshield (it looked too narrow on the right before).' }
+      { v: 'v1.4.1', date: '2026-11-11', status: 'done', text: 'GT350 painted cockpit redone with the full cabin width: the dash, wood-grain band, radio, under-dash gauges, glovebox with Shelby plate and console continue across to the passenger side, the right A-pillar sits at the far edge of the windshield (it looked too narrow on the right before).' },
+      { v: 'v1.5', date: '2026-11-11', status: 'done', text: 'Visuals v2 (painted): steering wheel and dashboard in real proportion (driver camera from real dimensions: 65\u00b0 view, eye 74 cm behind the rim and 30 cm above the hub, 15 in GT350 wheel, 17.5 in Cadillac wheel; the horizon sits higher, so the road shows through the windshield again). Separate phone layouts: in portrait the controls sit below the scene, in landscape the top bar is compact (menu button) and the shift buttons sit above the gas pedal; every view is framed so no button covers the dash. New painted chase view for both cars (cut-out painted car over the painted road, live brake and tail lights, exhaust smoke, roadside scenery streaming past, squat, dive and sway, drag-strip lines). Gear levers move: the GT350 Hurst T-handle travels through the 4-speed H gate on every shift, the Cadillac column lever swings through P N D S L R with the quadrant.' }
     ] }
   ]
 };
@@ -8631,7 +8774,7 @@ var ProjectHistory = {
   var dash = new UI.Dash(canvas);
   function relayout() { dash.resize(); }
   window.addEventListener('resize', relayout); window.addEventListener('orientationchange', function () { setTimeout(relayout, 250); });
-  if (window.ResizeObserver) new ResizeObserver(relayout).observe(document.getElementById('stage'));
+  if (window.ResizeObserver) { var ro = new ResizeObserver(relayout); ro.observe(document.getElementById('stage')); ro.observe(canvas); }
 
   function car() { return cars[state.carId]; }
   function spec() { return car().c; }
@@ -8782,7 +8925,7 @@ var ProjectHistory = {
     ign: ignition, car: function (b) { selectCar(b.dataset.v); }, view: function (b) { setView(+b.dataset.v); },
     units: toggleUnits, mute: toggleMute, drag: function () { if (drag) dragExit(); else dragEnter(); }, radio: toggleRadio, up: shiftUp, down: shiftDown,
     about: function () { openAbout(true); }, aboutClose: function () { openAbout(false); },
-    dismissRotate: function () { document.getElementById('rotate').classList.add('dismissed'); },
+    menu: function () { document.getElementById('topbar').classList.toggle('open'); },
   };
   document.querySelectorAll('[data-act]').forEach(function (b) {
     var downId = null, lastFire = 0;
